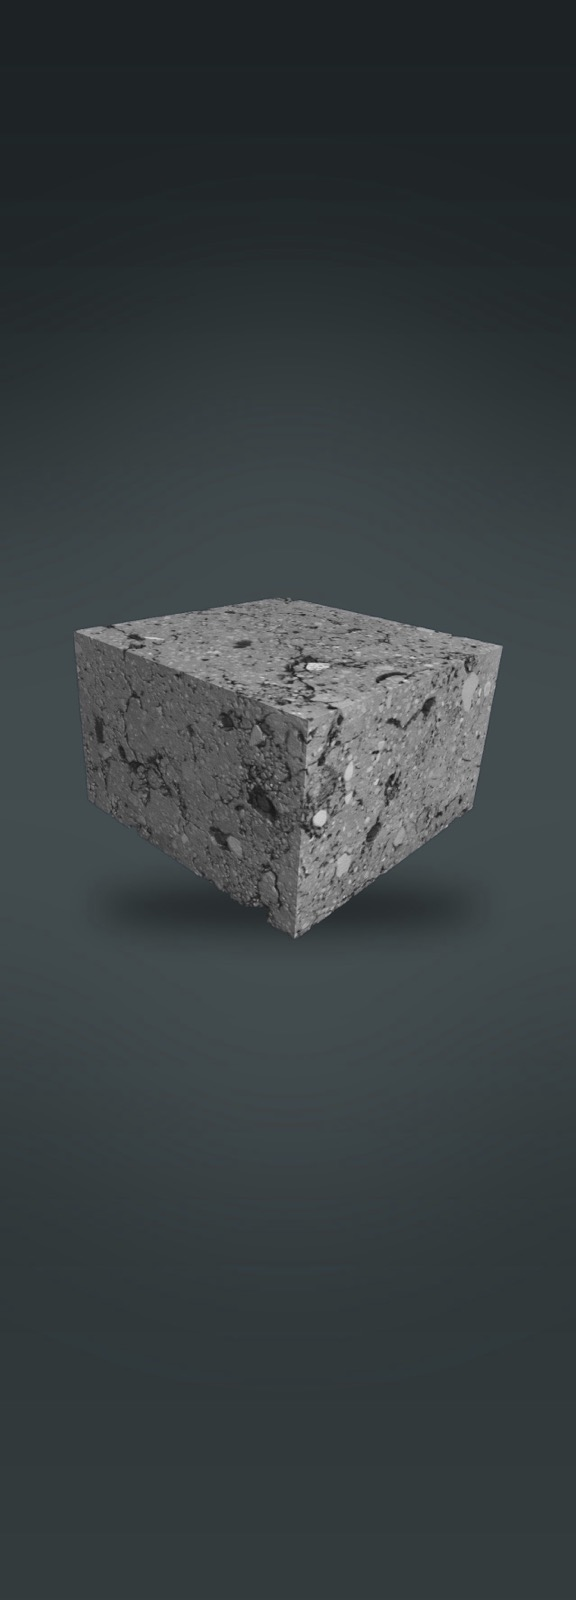
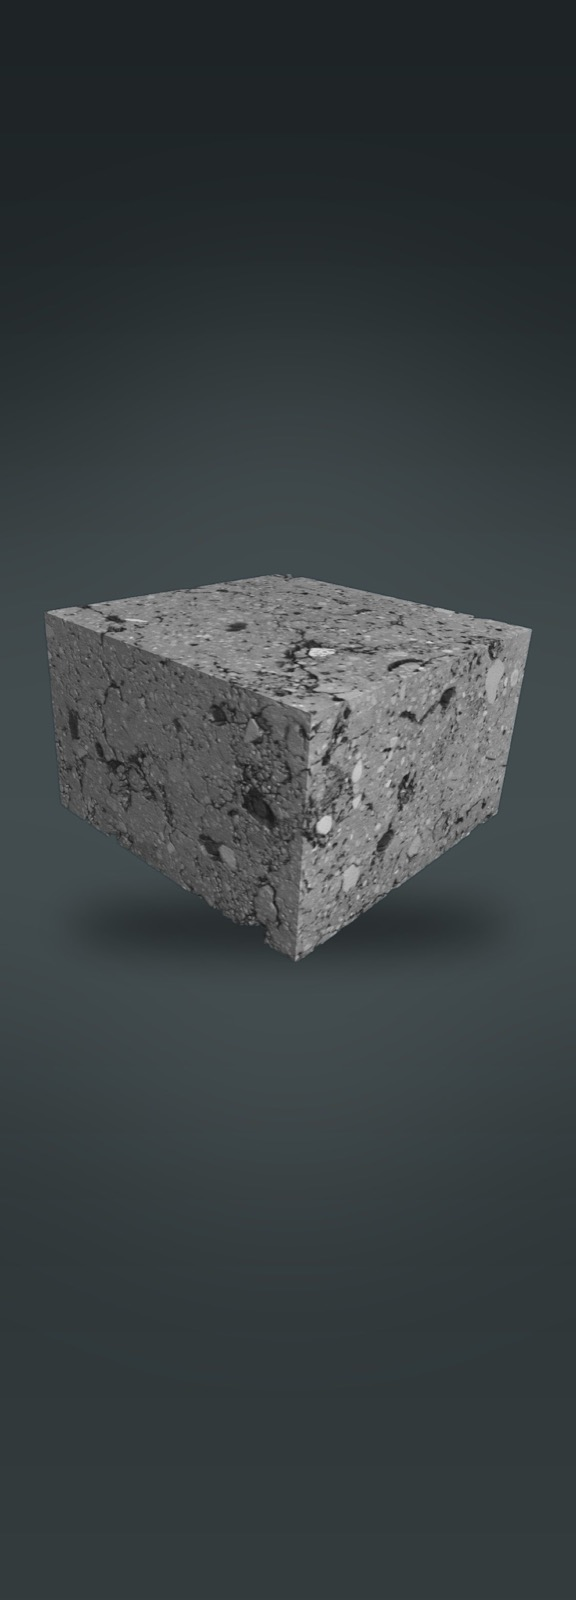
Hero: bigger mesocosm cube, stronger and faster panel drift
Drift now 18s, scale 1.04 -> 1.22, translate(-3%, -2.5%). Previous subtler
values (af89306) are recorded in site.css and CLAUDE.md for an easy revert.

Changed region(s): [[0.0625, 0.3438, 0.9375, 0.625]]

diff --git a/assets/site.css b/assets/site.css
@@ -143,11 +143,11 @@ p { margin: 0; text-wrap: pretty; }
 }
 .hero-panels { position: absolute; inset: 0; display: grid; grid-template-columns: repeat(5, minmax(0, 1fr)); gap: 4px; }
 .hero-panels figure { margin: 0; position: relative; overflow: hidden; background: #1a1d1c; }
-.hero-panels img { width: 100%; height: 100%; object-fit: cover; transform-origin: 50% 50%; animation: drift 26s ease-in-out infinite alternate; }
-.hero-panels figure:nth-child(2) img { animation-delay: -6s; }
-.hero-panels figure:nth-child(3) img { animation-delay: -12s; }
-.hero-panels figure:nth-child(4) img { animation-delay: -18s; }
-.hero-panels figure:nth-child(5) img { animation-delay: -24s; }
+.hero-panels img { width: 100%; height: 100%; object-fit: cover; transform-origin: 50% 50%; animation: drift 18s ease-in-out infinite alternate; }
+.hero-panels figure:nth-child(2) img { animation-delay: -4s; }
+.hero-panels figure:nth-child(3) img { animation-delay: -8s; }
+.hero-panels figure:nth-child(4) img { animation-delay: -12s; }
+.hero-panels figure:nth-child(5) img { animation-delay: -16s; }
 .hero-panels span {
   position: absolute; top: 12px; right: 12px; padding: 3px 9px; border-radius: 999px;
   font-family: var(--mono); font-size: 11.5px; letter-spacing: -0.02em; white-space: nowrap; color: #fff; background: rgba(0, 0, 0, 0.5);
@@ -156,7 +156,12 @@ p { margin: 0; text-wrap: pretty; }
 @media (max-width: 1180px) { .hero-panels em { display: none; } }
 .teaser-grid { grid-template-columns: repeat(3, minmax(0, 1fr)); }
 @media (max-width: 760px) { .teaser-grid { grid-template-columns: 1fr; } }
-@keyframes drift { from { transform: scale(calc(var(--z, 1) * 1.03)) translate(0, 0); } to { transform: scale(calc(var(--z, 1) * 1.14)) translate(-2%, -1.5%); } }
+/* Drift. Previous, subtler setting (commit af89306): 26s cycle, delays -6/-12/-18/-24s,
+   scale 1.03 -> 1.14, translate(-2%, -1.5%). */
+@keyframes drift { from { transform: scale(calc(var(--z, 1) * 1.04)) translate(0, 0); } to { transform: scale(calc(var(--z, 1) * 1.22)) translate(-3%, -2.5%); } }
+/* mesocosm cube: damp the zoom so the whole cube always stays in view */
+.hero-panels figure:nth-child(2) { background: #1e2426; }
+.hero-panels figure:nth-child(2) img { --z: 0.9; }
 .hero-panels figure:nth-child(3) { background: #efebe4; }
 .hero-card {
   position: absolute; left: 24px; bottom: 24px; max-width: calc(100% - 48px);

diff --git a/CLAUDE.md b/CLAUDE.md
@@ -38,6 +38,12 @@ The nav and footer are repeated in every page. When changing them, change all pa
 
 Links into the middle of a page always use an anchor (`opportunities.html#positions`) so visitors land on what they clicked for.
 
+## Hero drift animation
+Current: 18 s cycle, scale 1.04 → 1.22, translate(-3%, -2.5%), delays -4/-8/-12/-16 s;
+mesocosm panel damped with `--z: 0.9`.
+Previous subtler setting (commit af89306): 26 s cycle, scale 1.03 → 1.14, translate(-2%, -1.5%),
+delays -6/-12/-18/-24 s. Both are in the `@keyframes drift` comment in `assets/site.css`.
+
 ## Parked ideas
 - Scale strip ("Soil is different at every scale"): removed for now; the first version is in git history (commit f26563d) if revisited.
 - Hero video: a muted ~10 s loop (1–2 MB, with a poster image) would fit the hero.
